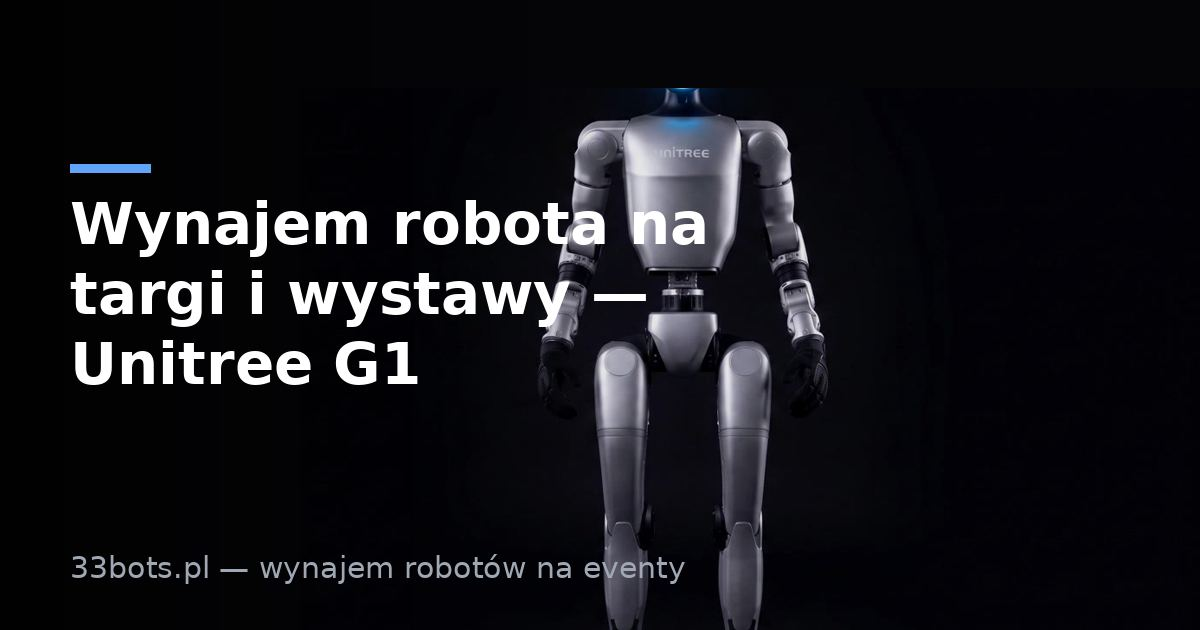
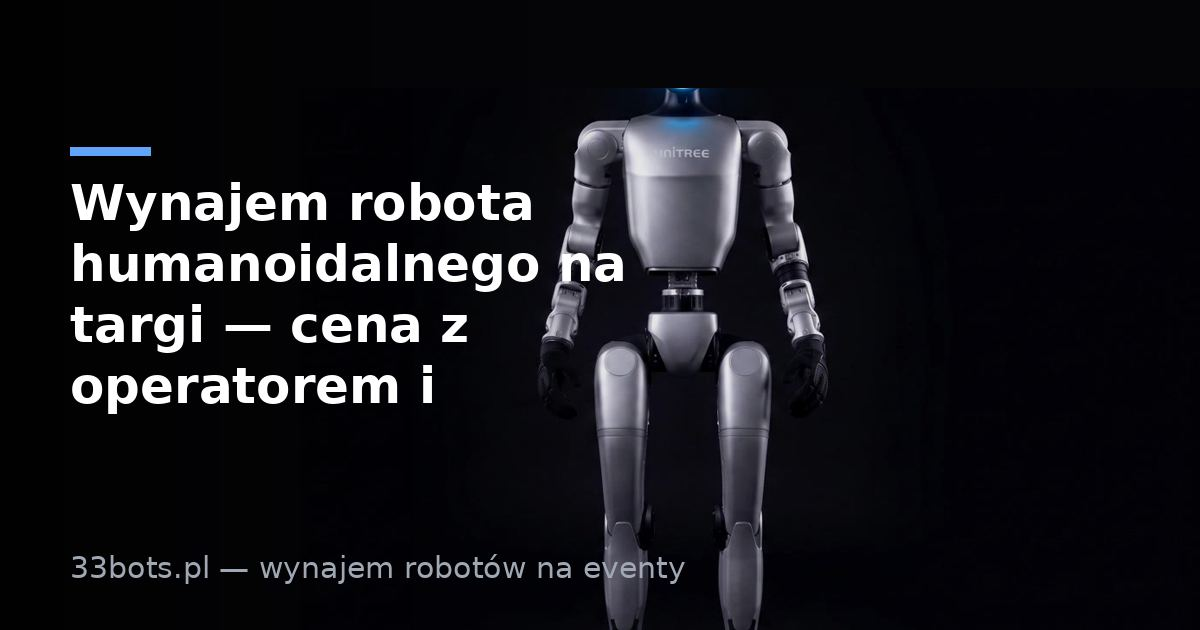
Merge default branch: trust signals + nowy artykuł objęty poprawkami SEO
- rozwiązane konflikty meta (opisy z sygnałami zaufania skrócone do limitu)
- nowy artykuł blog-jak-wybrac-firme: usunięty podwójny GA4, schemat Service, skrócone meta, unikalny OG image
- przywrócony skrócony title oferta-targi po merge

Claude-Session: https://claude.ai/code/session_01VJzUjuL6qw8RKH63X5QT2b

Changed region(s): [[0.0617, 0.2111, 0.5858, 0.6635]]

diff --git a/blog-jak-wybrac-firme-do-wynajmu-robota.html b/blog-jak-wybrac-firme-do-wynajmu-robota.html
@@ -8,18 +8,10 @@ j=d.createElement(s),dl=l!='dataLayer'?'&l='+l:'';j.async=true;j.src=
 'https://www.googletagmanager.com/gtm.js?id='+i+dl;f.parentNode.insertBefore(j,f);
 })(window,document,'script','dataLayer','GTM-MR7R7CJ3');</script>
 <!-- End Google Tag Manager -->
-  <!-- Google Analytics 4 -->
-  <script async src="https://www.googletagmanager.com/gtag/js?id=G-MNE9Y0S9QV"></script>
-  <script>
-    window.dataLayer = window.dataLayer || [];
-    function gtag(){dataLayer.push(arguments);}
-    gtag('js', new Date());
-    gtag('config', 'G-MNE9Y0S9QV');
-  </script>
   <meta charset="UTF-8" />
   <meta name="viewport" content="width=device-width, initial-scale=1.0" />
-  <title>Jak wybrać firmę do wynajmu robota humanoidalnego? Porównanie ofert 2026 | 33bots</title>
-  <meta name="description" content="Porównujesz oferty wynajmu robota humanoidalnego? Sprawdź 7 rzeczy przed podpisaniem umowy: transport, operator, branding, ubezpieczenie, referencje. Przewodnik 2026." />
+  <title>Jak wybrać firmę do wynajmu robota? Porównanie ofert 2026</title>
+  <meta name="description" content="Porównujesz oferty wynajmu robota humanoidalnego? Sprawdź 7 rzeczy przed podpisaniem umowy: transport, operator, branding, ubezpieczenie. Przewodnik 2026." />
   <meta name="keywords" content="jak wybrać firmę wynajem robota, wynajem robota humanoidalnego porównanie, wynajem robota humanoidalnego oferta, firma wynajmująca roboty humanoidalne, wynajem robota na event porównanie cen" />
     <meta property="article:published_time" content="2026-07-23T00:00:00+02:00" />
   <meta property="article:modified_time" content="2026-07-23T00:00:00+02:00" />
@@ -31,19 +23,19 @@ j=d.createElement(s),dl=l!='dataLayer'?'&l='+l:'';j.async=true;j.src=
   <!-- Open Graph -->
   <meta property="og:type" content="article" />
   <meta property="og:url" content="https://33bots.pl/blog-jak-wybrac-firme-do-wynajmu-robota.html" />
-  <meta property="og:title" content="Jak wybrać firmę do wynajmu robota humanoidalnego? Porównanie ofert 2026 | 33bots" />
-  <meta property="og:description" content="Porównujesz oferty wynajmu robota humanoidalnego? Sprawdź 7 rzeczy przed podpisaniem umowy: transport, operator, branding, ubezpieczenie, referencje. Przewodnik 2026." />
-  <meta property="og:image" content="https://33bots.pl/og-image.jpg" />
+  <meta property="og:title" content="Jak wybrać firmę do wynajmu robota? Porównanie ofert 2026" />
+  <meta property="og:description" content="Porównujesz oferty wynajmu robota humanoidalnego? Sprawdź 7 rzeczy przed podpisaniem umowy: transport, operator, branding, ubezpieczenie. Przewodnik 2026." />
+  <meta property="og:image" content="https://33bots.pl/og/blog-jak-wybrac-firme-do-wynajmu-robota.jpg" />
   <meta property="og:image:width" content="1200" />
   <meta property="og:image:height" content="630" />
-  <meta property="og:image:alt" content="Robot humanoidalny Unitree G1 — jak wybrać firmę do wynajmu" />
+  <meta property="og:image:alt" content="Jak wybrać firmę do wynajmu robota — 33bots" />
   <meta property="og:locale" content="pl_PL" />
   <meta property="og:site_name" content="33bots" />
 
   <!-- Twitter / X Card -->
   <meta name="twitter:card" content="summary_large_image" />
-  <meta name="twitter:title" content="Jak wybrać firmę do wynajmu robota humanoidalnego? | 33bots" />
-  <meta name="twitter:description" content="7 rzeczy, które musisz sprawdzić przed podpisaniem umowy na wynajem robota humanoidalnego: transport, operator, branding, ubezpieczenie, referencje." />
+  <meta name="twitter:title" content="Jak wybrać firmę do wynajmu robota? Porównanie ofert 2026" />
+  <meta name="twitter:description" content="Porównujesz oferty wynajmu robota humanoidalnego? Sprawdź 7 rzeczy przed podpisaniem umowy: transport, operator, branding, ubezpieczenie. Przewodnik 2026." />
 
   <!-- Mobile -->
   <meta name="theme-color" content="#000000" />

diff --git a/index.html b/index.html
@@ -11,7 +11,7 @@ j=d.createElement(s),dl=l!='dataLayer'?'&l='+l:'';j.async=true;j.src=
   <meta charset="UTF-8" />
   <meta name="viewport" content="width=device-width, initial-scale=1.0" />
   <title>Wynajem robotów humanoidalnych na eventy | 33bots — Unitree G1</title>
-  <meta name="description" content="Wynajem robotów humanoidalnych Unitree G1 — robot na event, targi i konferencje. Zaufali nam DSV, Fundacja Perspektywy i LEX AI. Darmowy transport i operator w cenie." />
+  <meta name="description" content="Wynajem robotów humanoidalnych Unitree G1 — robot na event, targi i konferencje. Zaufali nam DSV, Perspektywy i LEX AI. Darmowy transport i operator w cenie." />
   <meta name="keywords" content="wynajem robotów, wynajem robota, robot na event, robot humanoidalny wynajem, Unitree G1, robot na konferencję, robot na targi, atrakcja eventowa, robot humanoidalny Polska" />
   <meta name="robots" content="index, follow" />
   <link rel="canonical" href="https://33bots.pl/" />
@@ -20,7 +20,7 @@ j=d.createElement(s),dl=l!='dataLayer'?'&l='+l:'';j.async=true;j.src=
   <meta property="og:type" content="website" />
   <meta property="og:url" content="https://33bots.pl/" />
   <meta property="og:title" content="Wynajem robotów humanoidalnych na eventy | 33bots — Unitree G1" />
-  <meta property="og:description" content="Wynajem robotów humanoidalnych Unitree G1 — robot na event, targi i konferencje. Zaufali nam DSV, Fundacja Perspektywy i LEX AI. Darmowy transport i operator w cenie." />
+  <meta property="og:description" content="Wynajem robotów humanoidalnych Unitree G1 — robot na event, targi i konferencje. Zaufali nam DSV, Perspektywy i LEX AI. Darmowy transport i operator w cenie." />
   <meta property="og:image" content="https://33bots.pl/og-image.jpg" />
   <meta property="og:image:width" content="1200" />
   <meta property="og:image:height" content="630" />
@@ -35,7 +35,7 @@ j=d.createElement(s),dl=l!='dataLayer'?'&l='+l:'';j.async=true;j.src=
   <!-- Twitter / X Card -->
   <meta name="twitter:card" content="summary_large_image" />
   <meta name="twitter:title" content="Wynajem robotów humanoidalnych na eventy | 33bots — Unitree G1" />
-  <meta name="twitter:description" content="Wynajem robotów humanoidalnych Unitree G1 — robot na event, targi i konferencje. Zaufali nam DSV, Fundacja Perspektywy i LEX AI. Darmowy transport i operator w cenie." />
+  <meta name="twitter:description" content="Wynajem robotów humanoidalnych Unitree G1 — robot na event, targi i konferencje. Zaufali nam DSV, Perspektywy i LEX AI. Darmowy transport i operator w cenie." />
 
   <!-- Mobile -->
   <meta name="theme-color" content="#000000" />

diff --git a/oferta-targi.html b/oferta-targi.html
@@ -10,7 +10,7 @@ j=d.createElement(s),dl=l!='dataLayer'?'&l='+l:'';j.async=true;j.src=
 <!-- End Google Tag Manager -->
   <meta charset="UTF-8" />
   <meta name="viewport" content="width=device-width, initial-scale=1.0" />
-  <title>Wynajem robota humanoidalnego na targi — cena z operatorem i transportem | 33bots</title>
+  <title>Wynajem robota na targi i wystawy — Unitree G1 | 33bots</title>
   <meta name="description" content="Wynajem robota humanoidalnego na targi: cena zawsze z operatorem, darmowym transportem i brandingiem. Zaufali nam DSV i Fundacja Perspektywy. Wycena w 24h →" />
   <meta name="robots" content="index, follow" />
   <link rel="canonical" href="https://33bots.pl/oferta-targi.html" />
@@ -23,14 +23,14 @@ j=d.createElement(s),dl=l!='dataLayer'?'&l='+l:'';j.async=true;j.src=
   <meta property="og:image" content="https://33bots.pl/og/oferta-targi.jpg" />
   <meta property="og:image:width" content="1200" />
   <meta property="og:image:height" content="630" />
-  <meta property="og:image:alt" content="Wynajem robota na targi i wystawy — Unitree G1 — 33bots" />
+  <meta property="og:image:alt" content="Wynajem robota humanoidalnego na targi — cena z operatorem i transportem — 33bots" />
   <meta property="og:locale" content="pl_PL" />
   <meta property="og:site_name" content="33bots" />
   <meta name="keywords" content="wynajem robota na targi, roboty humanoidalne na targi cena, robot na stoisko targowe, nowoczesne atrakcje generujące ruch na stoisku, Unitree G1 targi, atrakcja targowa, robot do wynajęcia targi" />
 
   <!-- Twitter / X Card -->
   <meta name="twitter:card" content="summary_large_image" />
-  <meta name="twitter:title" content="Wynajem robota humanoidalnego na targi — cena z operatorem i transportem | 33bots" />
+  <meta name="twitter:title" content="Wynajem robota na targi i wystawy — Unitree G1 | 33bots" />
   <meta name="twitter:description" content="Wynajem robota humanoidalnego na targi: cena zawsze z operatorem, darmowym transportem i brandingiem. Zaufali nam DSV i Fundacja Perspektywy. Wycena w 24h →" />
 
   <!-- Mobile -->
